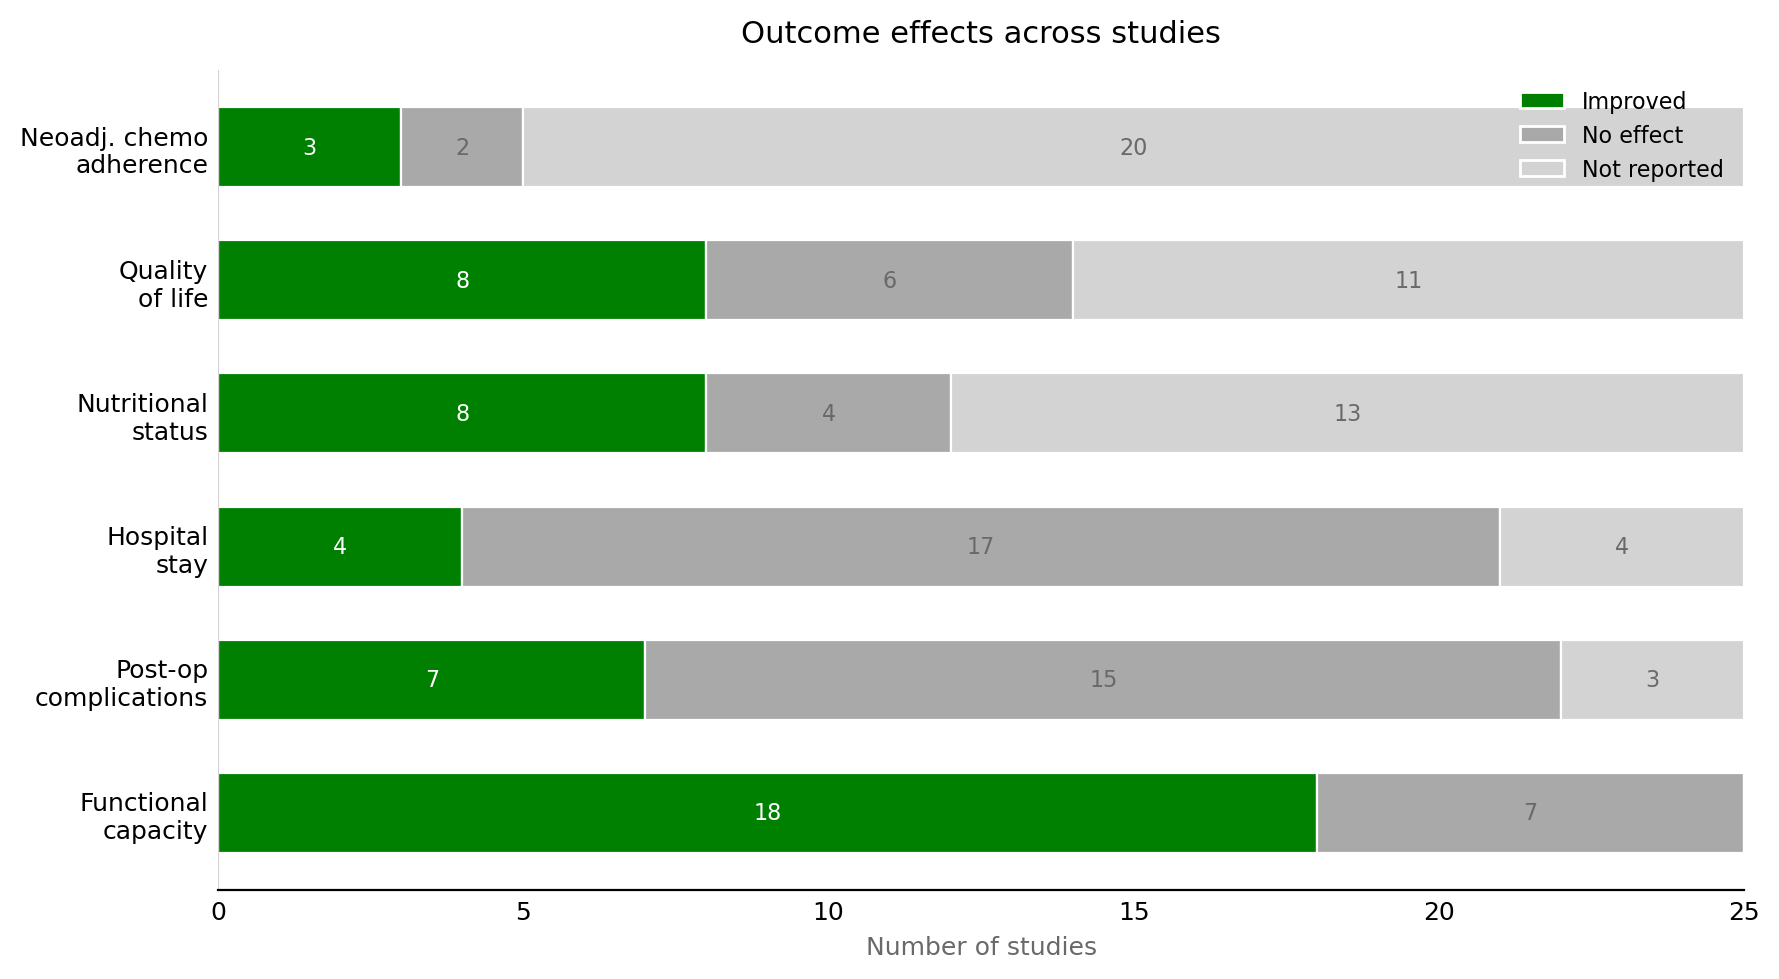
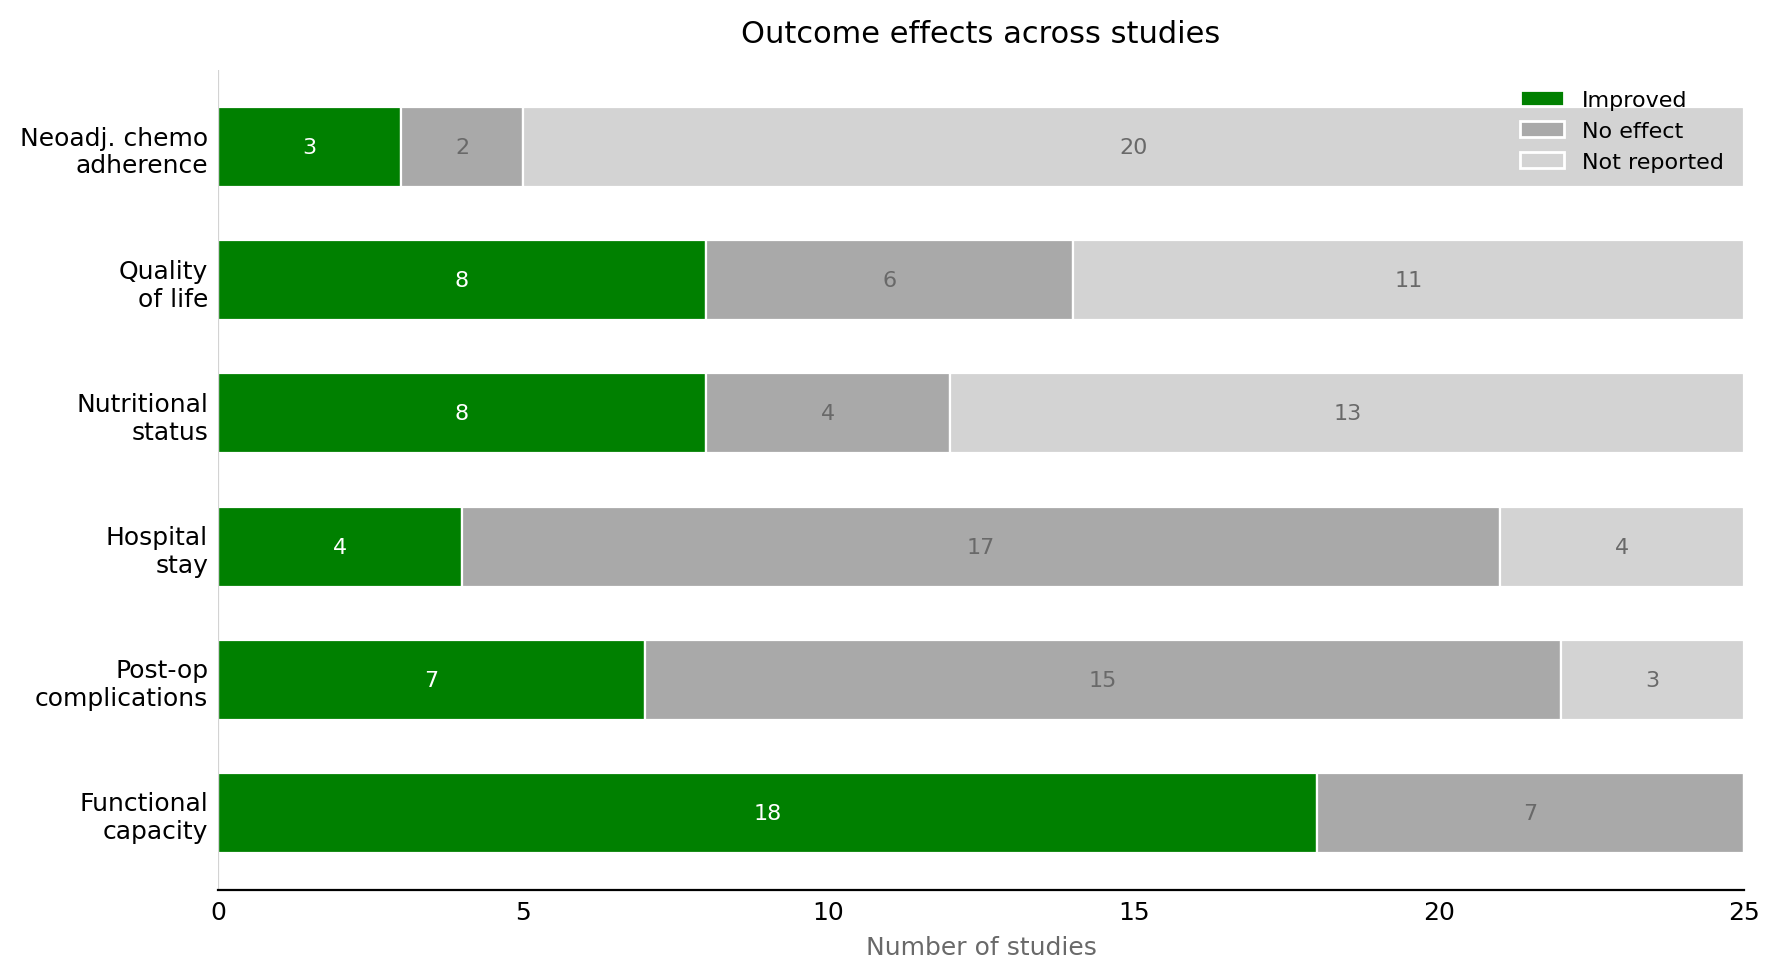
added sample size and dropouts to visualisations

diff --git a/scripts/visualisations.py b/scripts/visualisations.py
@@ -189,7 +189,7 @@ def plot_outcome_effects(df, ax=None):
                     fontsize=8,
                     color="white" if color == "green" else "dimgrey")
                 
-         # Move the starting position for the next stacked section
+        # Move the starting position for the next stacked section
         left += vals
 
     # Set x-axis label and title
@@ -220,8 +220,49 @@ def plot_outcome_effects(df, ax=None):
         return fig
     return None
 
+# 3. SAMPLE SIZE AND DROPOUTS
+
+def plot_sample_size_dropouts(df, ax=None):
+    plot_df = df[["Author", "Year", "n_enrolled", "n_dropouts"]].copy()
+    plot_df["Study"] = plot_df["Author"] + " (" + plot_df["Year"].astype(int).astype(str) + ")"
+    plot_df = plot_df.sort_values("n_enrolled", ascending=True)
+
+    own_fig = ax is None
+    if own_fig:
+        fig, ax = plt.subplots(figsize=(9, 8))
+
+    ax.barh(
+        plot_df["Study"],
+        plot_df["n_enrolled"],
+        color="steelblue",
+        height=0.6,
+        label="Total sample size"
+    )
+
+    ax.barh(
+        plot_df["Study"],
+        plot_df["n_dropouts"],
+        color="darkgrey",
+        height=0.6,
+        label="Dropouts"
+    )
+
+    ax.set_xlabel("Number of participants", fontsize=9)
+    ax.set_title("Sample size and dropouts by study", fontsize=11, pad=10)
+    ax.tick_params(axis="y", labelsize=9)
+    ax.tick_params(axis="x", labelsize=9)
+    clean_ax(ax)
+    ax.axvline(0, color="lightgrey", linewidth=0.8)
+    ax.legend(frameon=False, fontsize=8, loc="lower right")
+
+    if own_fig:
+        fig.tight_layout()
+        return fig
+    return None
+
 
 if __name__ == "__main__":
     plot_intervention_frequency(df).savefig("figures/intervention_frequency.png", dpi=200, bbox_inches="tight")
     plot_outcome_effects(df).savefig("figures/outcome_effects.png", dpi=200, bbox_inches="tight")
+    plot_sample_size_dropouts(df).savefig("figures/sample_size_dropouts.png", dpi=200, bbox_inches="tight")
     plt.show()